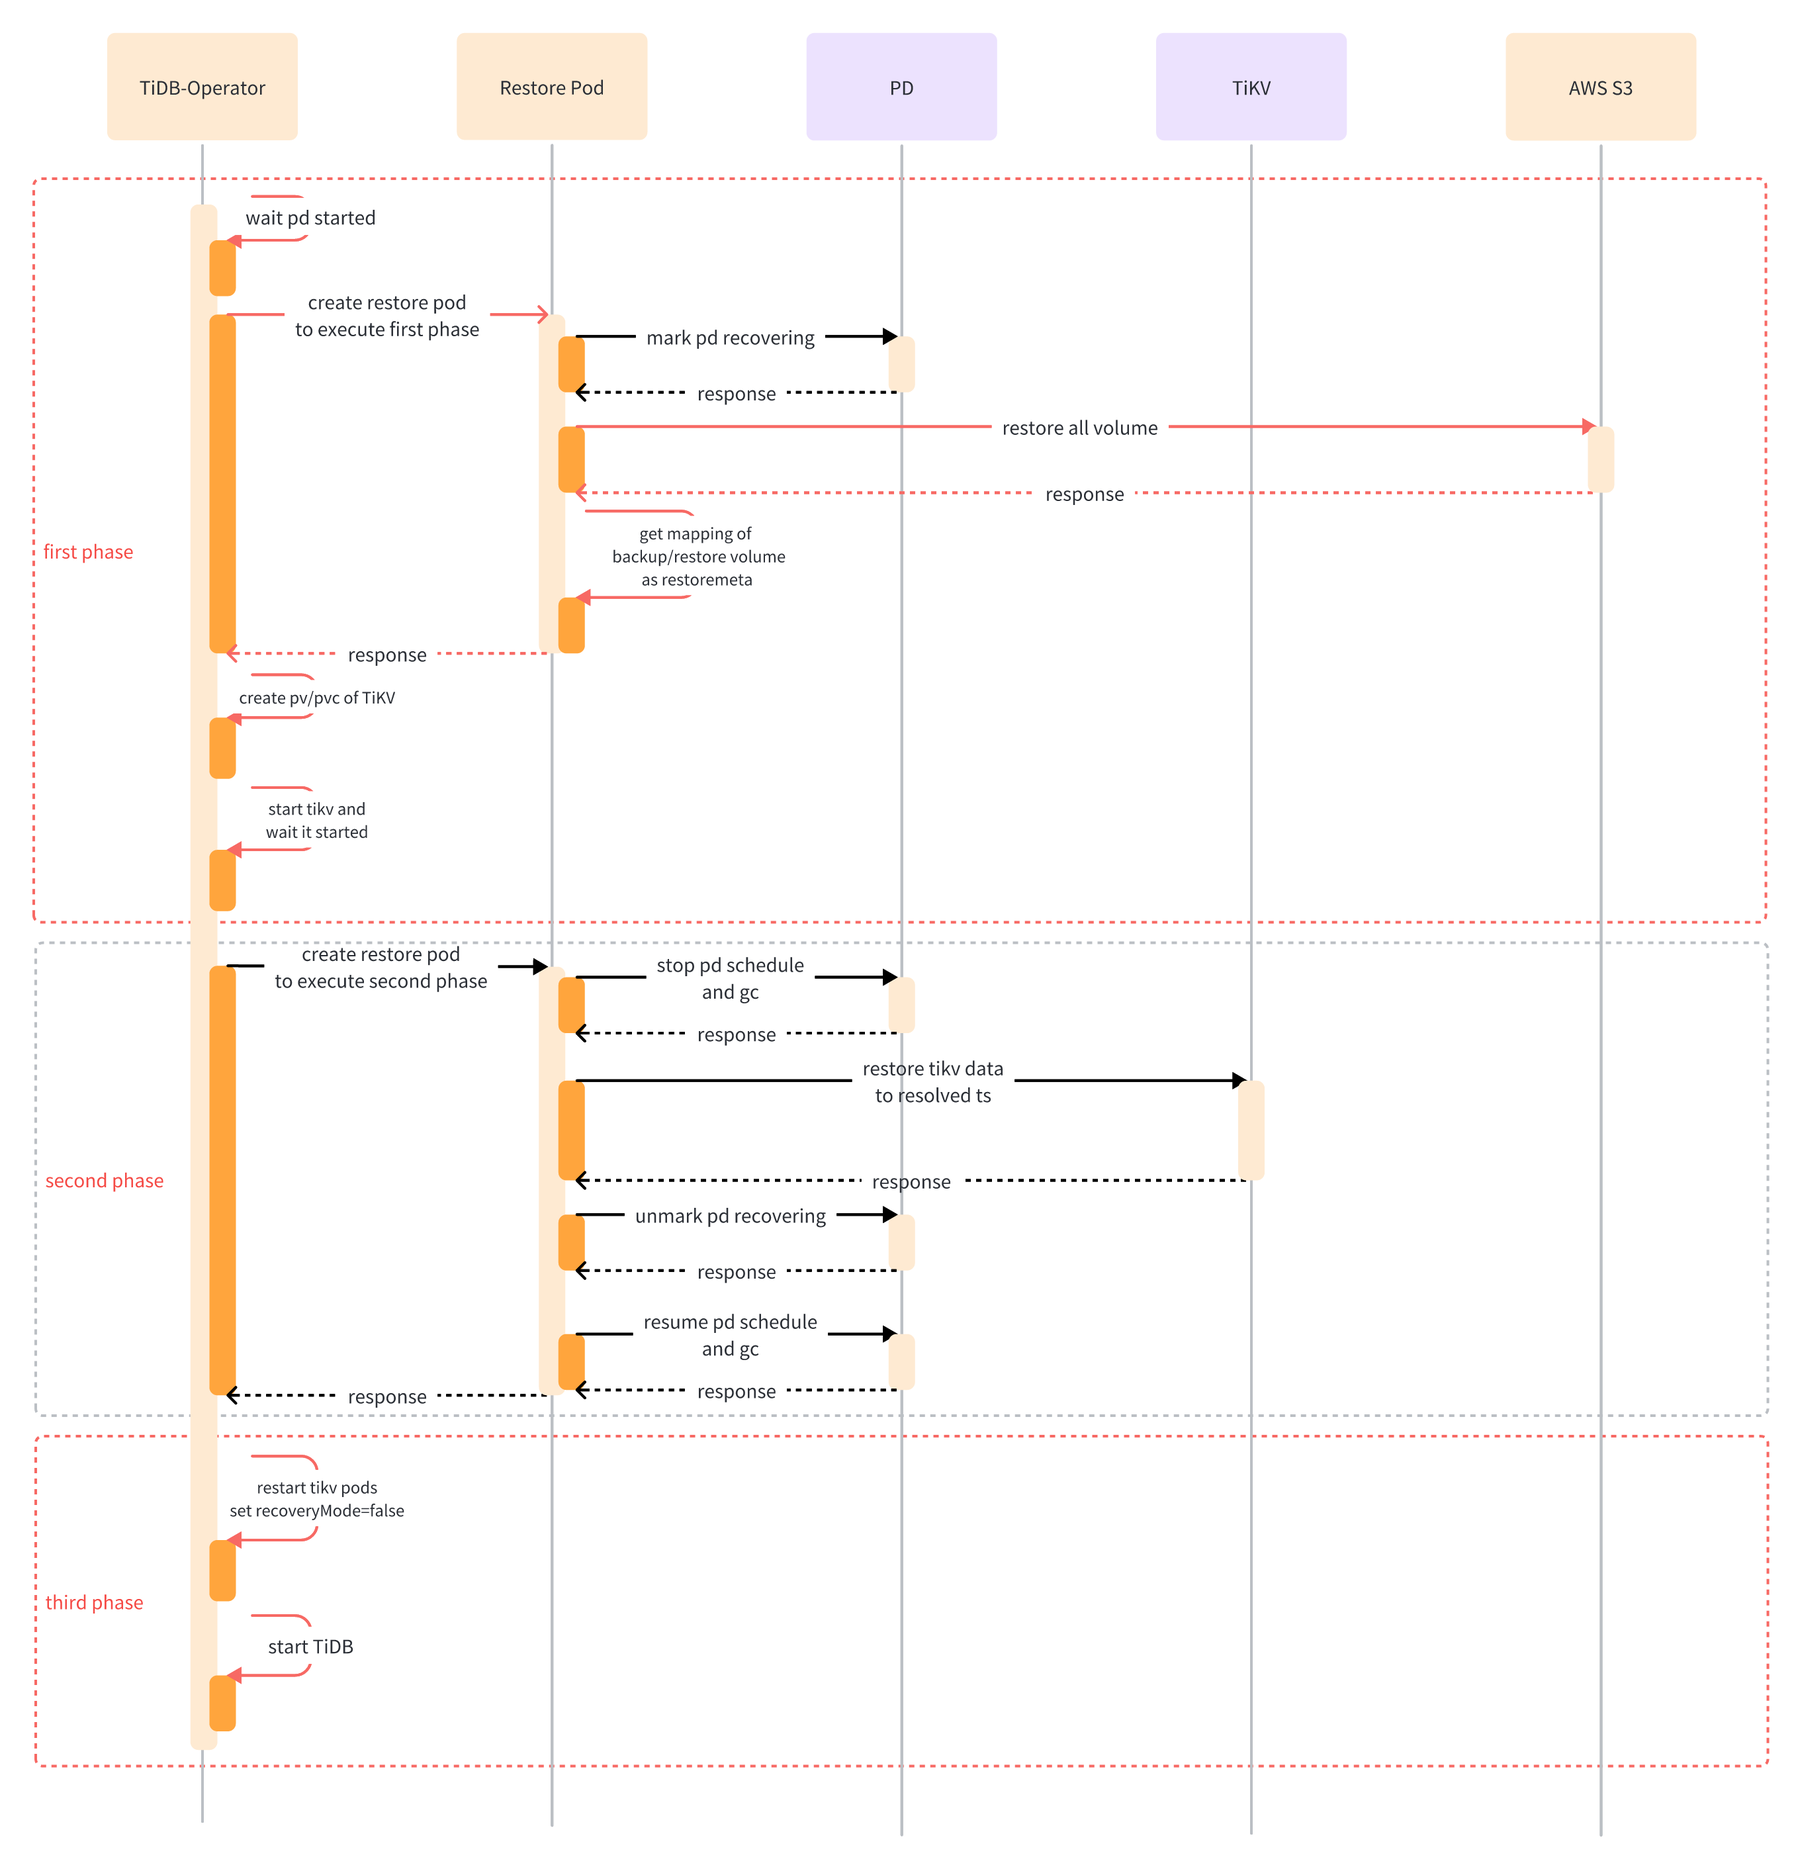
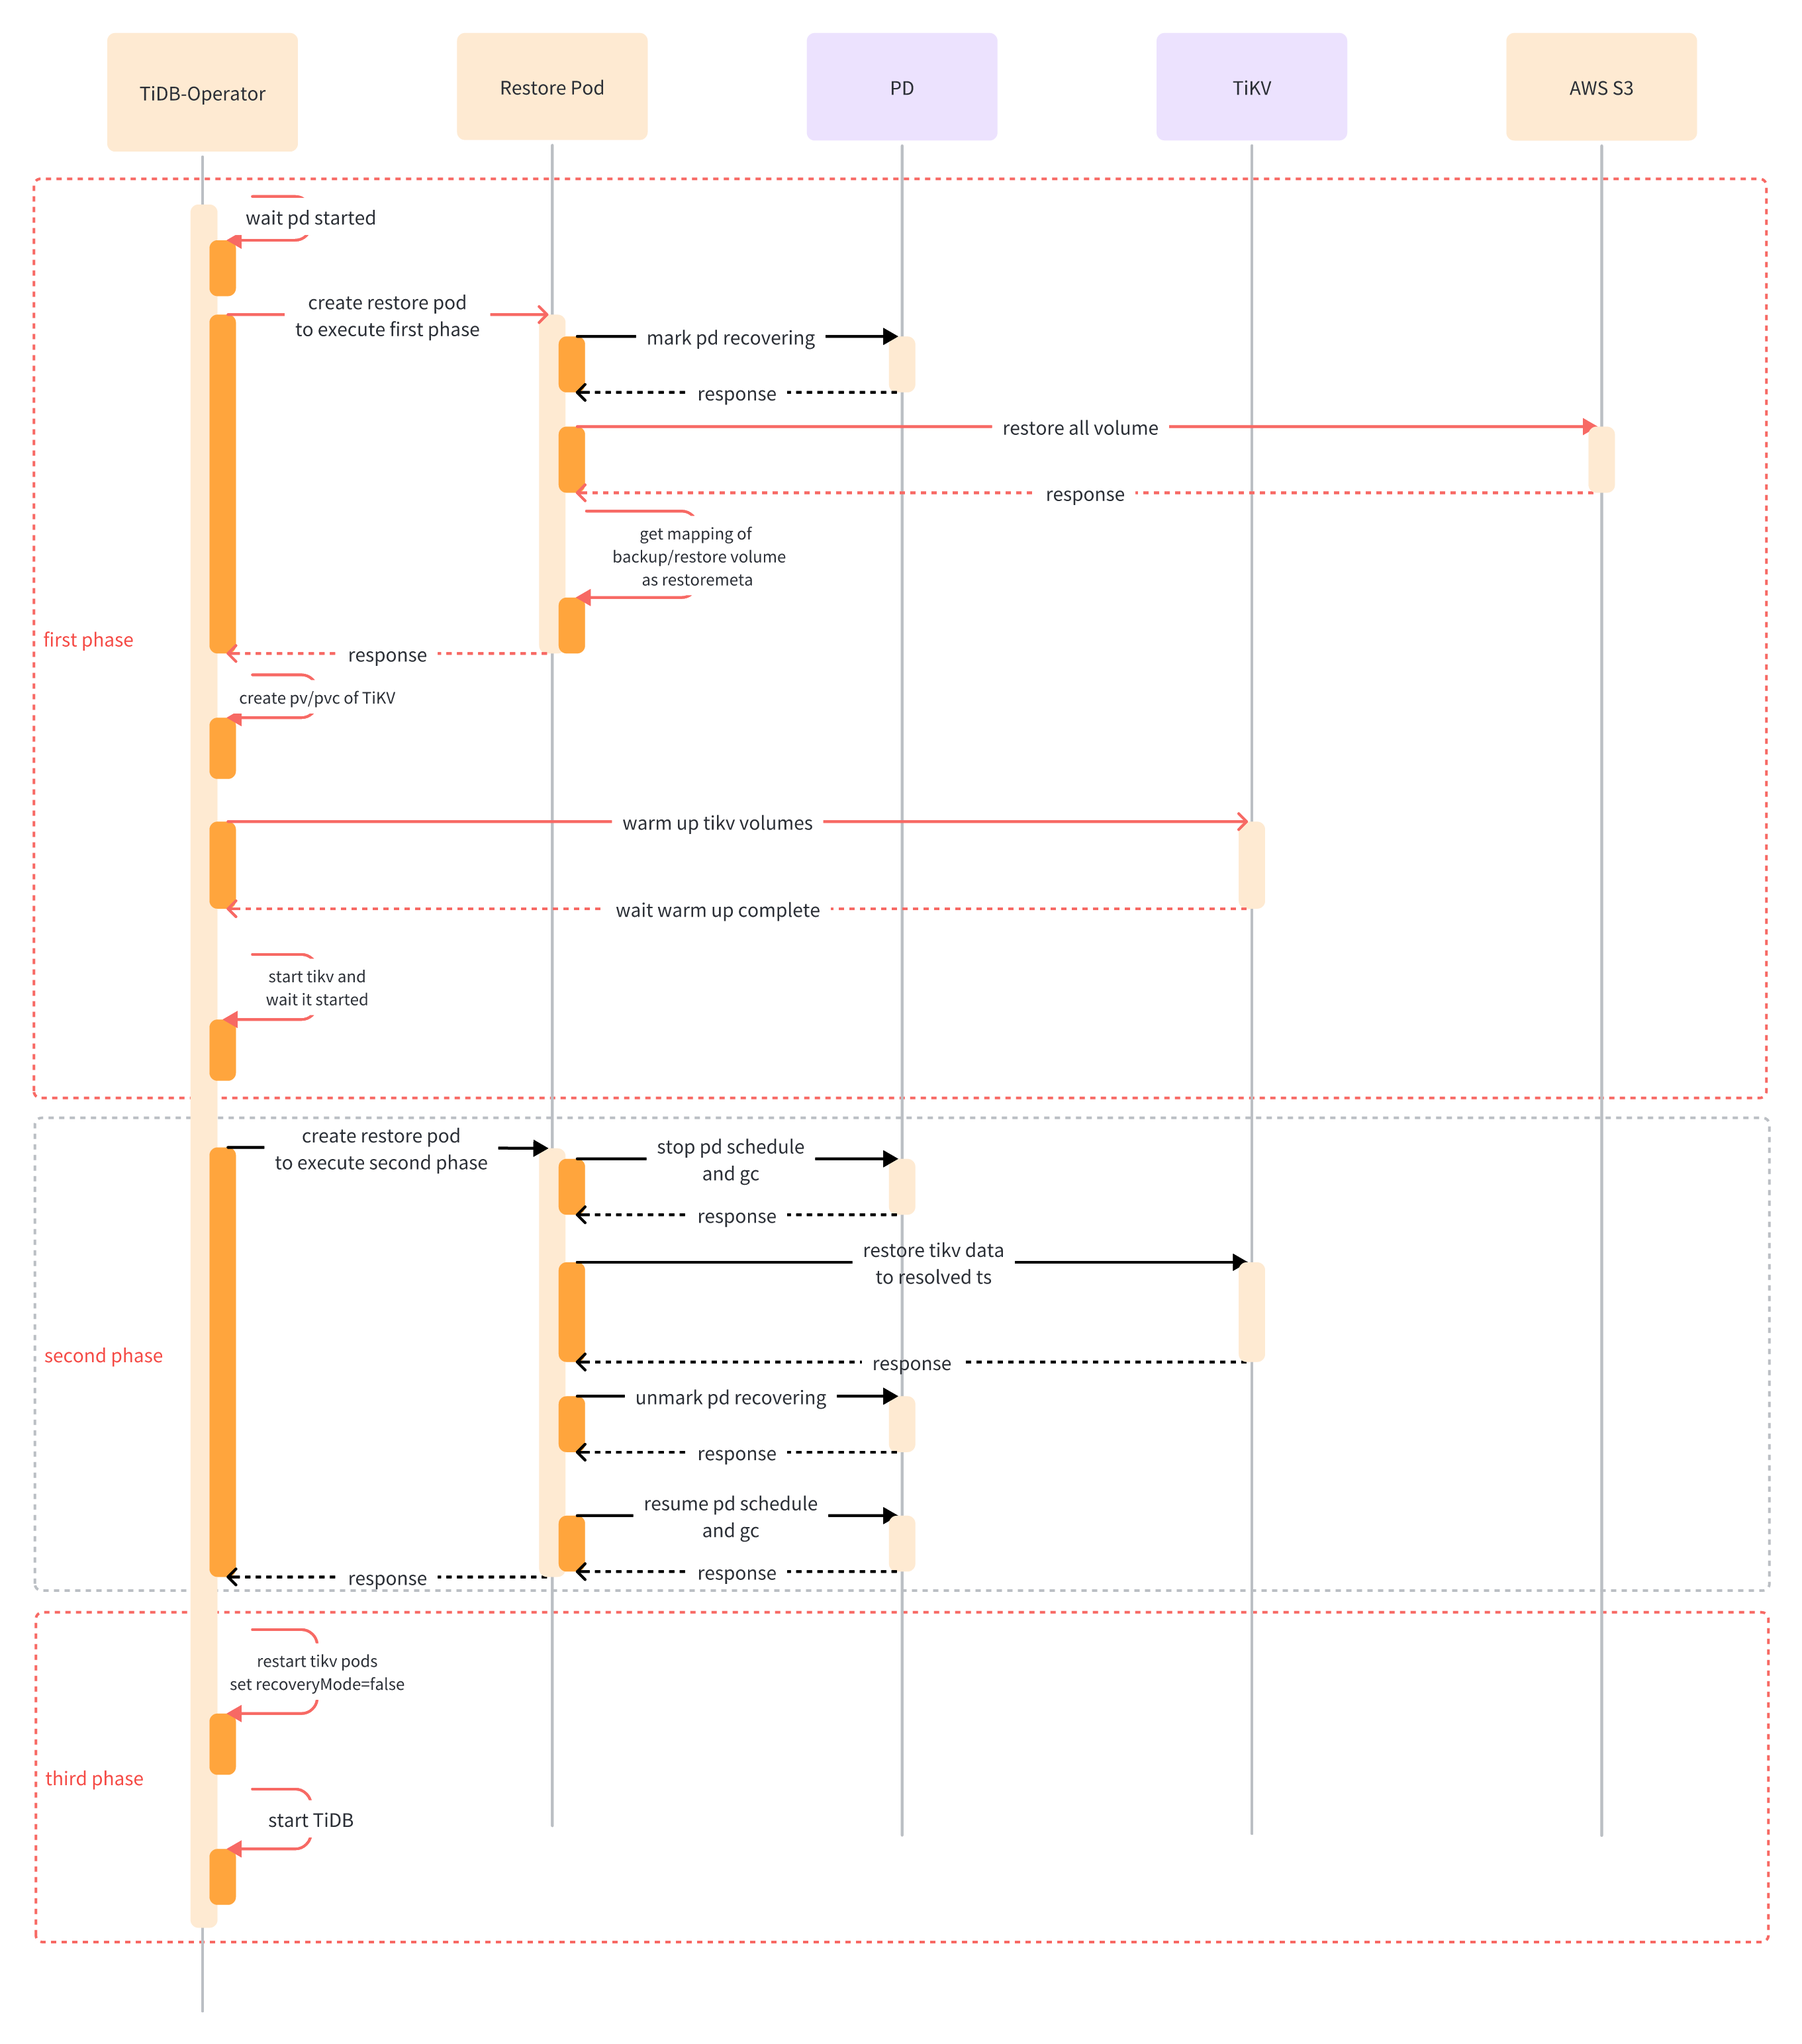
br: add warmup step to restore process

diff --git a/docs/design-proposals/2023-04-15-ebs-br-support-multiple-k8s.md b/docs/design-proposals/2023-04-15-ebs-br-support-multiple-k8s.md
@@ -204,18 +204,19 @@ The restore process was originally divided into two phases, where the first phas
 **First phase:**
 
 2. The restore controller of the control plane creates `Restore` CRs in each Kubernetes cluster with `federalVolumeRestorePhase: restore-volume`.
-3. The restore controller of the data plane restores the volumes from EBS snapshots, correctly assigns each volume to each TiKV, and starts TiKV.
-4. When the restore controller of the data plane discovers that all TiKV nodes in the current Kubernetes cluster have been successfully started, the restore CR1 enters the `TikvComplete` state.
+3. The restore controller of the data plane restores the volumes from EBS snapshots, correctly assigns each volume to each TiKV.
+4. The restore controller of the data plane starts a number of warmup pods to warm up all the TiKV volumes. After that, TiKV can get normal performance.
+5. The restore controller of the data plane starts all the TiKV. When it discovers that all TiKV nodes in the current Kubernetes cluster have been successfully started, the restore CR1 enters the `TikvComplete` state.
 
 **Second phase:**
 
-5. The restore controller of the control plane randomly selects a Kubernetes cluster to set `federalVolumeRestorePhase` of `Restore` CR to `restore-data` after all `Restore` CRs have entered `TikvComplete` state (if any restore CR fails, the restore fails).
-6. The restore controller of the data plane creates a restore pod, and performs the data restore stage of EBS restore. When BR completes execution, the `Restore` CR enters `DataComplete` state.
+6. The restore controller of the control plane randomly selects a Kubernetes cluster to set `federalVolumeRestorePhase` of `Restore` CR to `restore-data` after all `Restore` CRs have entered `TikvComplete` state (if any restore CR fails, the restore fails).
+7. The restore controller of the data plane creates a restore pod, and performs the data restore stage of EBS restore. When BR completes execution, the `Restore` CR enters `DataComplete` state.
 
 **Third phase:**
 
-7. The restore controller of the control plane updates the `federalVolumeRestorePhase` of all restore CRs to `restore-finish` after the `Restore` CR in step5 enters the `DataComplete` state.
-8. The restore controller of the data plane restarts the TiKV pods in the Kubernetes cluster where it is located, sets TC `recoveryMode` to `false`. Then the `Restore` CR enters `Complete` state.
-9. The restore is completed when the restore controller of the control plane discovers that all `Restore` CRs have entered `Complete` state.
+8. The restore controller of the control plane updates the `federalVolumeRestorePhase` of all restore CRs to `restore-finish` after the `Restore` CR in step5 enters the `DataComplete` state.
+9. The restore controller of the data plane restarts the TiKV pods in the Kubernetes cluster where it is located, sets TC `recoveryMode` to `false`. Then the `Restore` CR enters `Complete` state.
+10. The restore is completed when the restore controller of the control plane discovers that all `Restore` CRs have entered `Complete` state.
 
 ![new-restore-process-in-control-plane.png](new-restore-process-in-control-plane.png)
